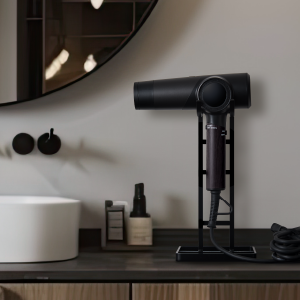
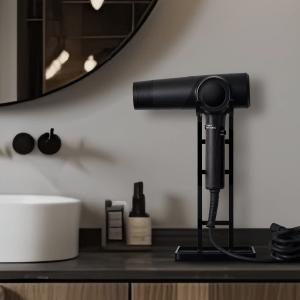
top画像差し替え

diff --git a/style.css b/style.css
@@ -2668,9 +2668,8 @@ Version: 1.0
   }
 }
 .p-top-introduction__img-content {
-  width: 46.25%;
+  width: min(50vw, 669px);
   padding-top: 25px;
-  padding-right: 75px;
 }
 @media only screen and (max-width: 768px) {
   .p-top-introduction__img-content {
@@ -2826,7 +2825,7 @@ Version: 1.0
   left: 16px;
 }
 .p-top-kv-section__card--right {
-  right: 16px;
+  right: 32px;
 }
 @media only screen and (max-width: 768px) {
   .p-top-kv-section__product-name {
@@ -2838,6 +2837,20 @@ Version: 1.0
 }
 .p-top-kv-section__product-name-inner {
   text-align: left;
+  margin-top: 60px;
+  letter-spacing: 3.5px;
+}
+.p-top-kv-section__product-name-logo {
+  text-align: center;
+}
+@media only screen and (max-width: 768px) {
+  .p-top-kv-section__product-name-logo {
+    text-align: right;
+  }
+}
+.p-top-kv-section__product-name-logo img {
+  width: min(50vw, 310px);
+  height: 188px;
 }
 .p-top-kv-section__card-title {
   line-height: 1.6;

diff --git a/scss/object/project/top/_top-kv-section.scss b/scss/object/project/top/_top-kv-section.scss
@@ -109,7 +109,7 @@
     }
 
     &--right {
-      right: 16px;
+      right: 32px;
     }
   }
   &__product-name {
@@ -122,6 +122,18 @@
   }
   &__product-name-inner {
     text-align: left;
+    margin-top: 60px;
+    letter-spacing: 3.5px;
+  }
+  &__product-name-logo {
+    text-align: center;
+    @include tablet {
+      text-align: right;
+    }
+    img {
+      width: min(50vw, 310px);
+      height: 188px;
+    }
   }
   &__card-title {
     line-height: 1.6;

diff --git a/scss/object/project/top/_top-introduction.scss b/scss/object/project/top/_top-introduction.scss
@@ -63,9 +63,8 @@
       margin: 0 auto;
       padding-right: 0;
     }
-    width: 46.25%;
+    width: min(50vw, 669px);
     padding-top: 25px;
-    padding-right: 75px;
   }
   &__button {
     @include tablet {

diff --git a/top.php b/top.php
@@ -11,7 +11,7 @@ $slider_data = get_field('top_slider');
 $slider_imgs = [];
 
 // スライダー画像の設定のあるものだけを抽出
-foreach($slider_data as $key => $value) {
+foreach ($slider_data as $key => $value) {
   if (!$value['slider_img_pc'] || !$value['slider_img_sp']) {
     continue;
   }
@@ -23,12 +23,12 @@ foreach($slider_data as $key => $value) {
   <section id="kv-area" class="c-slider">
     <!-- スライダー部 -->
     <ul class="slider full">
-        <?php foreach($slider_imgs as $img):?>
-          <li>
-            <img class="pc" src="<?php echo $img['slider_img_pc']?>" alt="">
-            <img class="sp" src="<?php echo $img['slider_img_sp']?>" alt="">
-          </li>
-        <?php endforeach;?>
+      <?php foreach ($slider_imgs as $img) : ?>
+        <li>
+          <img class="pc" src="<?php echo $img['slider_img_pc'] ?>" alt="">
+          <img class="sp" src="<?php echo $img['slider_img_sp'] ?>" alt="">
+        </li>
+      <?php endforeach; ?>
     </ul>
   </section>
   <section class="p-top-introduction l-container">
@@ -63,7 +63,10 @@ foreach($slider_data as $key => $value) {
         </div>
       </div>
       <div class="p-top-introduction__img-content">
-        <img src="<?php bloginfo('template_url'); ?>/assets/images/top/product/product1.png" alt="">
+        <picture>
+          <source srcset="<?php bloginfo('template_url'); ?>/assets/images/top/product/product1.webp" type="image/webp">
+          <img src="<?php bloginfo('template_url'); ?>/assets/images/top/product/product1.png" alt="">
+        </picture>
       </div>
     </section>
   </section>
@@ -82,23 +85,23 @@ foreach($slider_data as $key => $value) {
     <div class="p-top-topics__posts-list">
       <?php if ($the_query->have_posts()) : ?>
         <?php while ($the_query->have_posts()) : $the_query->the_post(); ?>
-        <a class="p-top-topics__post-link-wrap" href="<?php echo get_permalink(); ?>">
-          <dl class="p-top-topics__posts-list-item c-posts-list-card">
-            <dd class="c-posts-list__thumbnail">
-              <?php if (has_post_thumbnail()) : ?>
-                <?php the_post_thumbnail(); ?>
-              <?php else : ?>
-                <img src="<?php bloginfo('template_url'); ?>/assets/images/thumb.png" alt="">
-              <?php endif; ?>
-            </dd>
-            <dd class="p-top-topics__posts-list-date c-posts-list-card__date">
-              <time datetime="<?php the_time('Y/m/d'); ?>"><?php the_time('Y/m/d'); ?></time>
-            </dd>
-            <dt class="p-top-topics__posts-list-title c-posts-list-card__title">
-              <?php the_title(); ?>
-            </dt>
-          </dl>
-        </a>
+          <a class="p-top-topics__post-link-wrap" href="<?php echo get_permalink(); ?>">
+            <dl class="p-top-topics__posts-list-item c-posts-list-card">
+              <dd class="c-posts-list__thumbnail">
+                <?php if (has_post_thumbnail()) : ?>
+                  <?php the_post_thumbnail(); ?>
+                <?php else : ?>
+                  <img src="<?php bloginfo('template_url'); ?>/assets/images/thumb.png" alt="">
+                <?php endif; ?>
+              </dd>
+              <dd class="p-top-topics__posts-list-date c-posts-list-card__date">
+                <time datetime="<?php the_time('Y/m/d'); ?>"><?php the_time('Y/m/d'); ?></time>
+              </dd>
+              <dt class="p-top-topics__posts-list-title c-posts-list-card__title">
+                <?php the_title(); ?>
+              </dt>
+            </dl>
+          </a>
         <?php endwhile;
         wp_reset_postdata(); ?>
       <?php else : ?>
@@ -119,9 +122,9 @@ foreach($slider_data as $key => $value) {
         <section class="p-top-kv-section__card p-top-kv-section__card">
           <h2 class="p-top-kv-section__card-title c-heading-section--small c-txt--font-e">ECOALAについて</h2>
           <p class="p-top-kv-section__card-txt c-txt--20">
-          ただ髪を乾かすだけではなく、<br />
-          多くの人が髪や頭皮の悩みから解き放たれ<br />
-          心や表情まで軽やかになれるような体験を。
+            ただ髪を乾かすだけではなく、<br />
+            多くの人が髪や頭皮の悩みから解き放たれ<br />
+            心や表情まで軽やかになれるような体験を。
           </p>
           <div class="p-top-kv-section__card-button
               c-button c-button--round">
@@ -140,9 +143,8 @@ foreach($slider_data as $key => $value) {
       <div class="p-top-kv-section__kv-container-inner l-container l-container--wide">
         <div class="p-top-kv-section__kv-contents p-top-kv-section__kv-contents--right">
           <h2 class="p-top-kv-section__product-name">
-            <div class="p-top-kv-section__product-name-inner u-inline-block c-txt--font-e-serif">
-              <span class="c-heading-section--product-name-sub">ECOALA</span><br>
-              <span class="c-heading-section--product-name">AI Pro Style</span>
+            <div class="p-top-kv-section__product-name-logo">
+              <img src="<?php bloginfo('template_url'); ?>/assets/images/top/product/iDryer_logo.svg" alt="">
             </div>
           </h2>
           <section class="p-top-kv-section__card p-top-kv-section__card--ai-prostyle p-top-kv-section__card--right">
@@ -166,7 +168,10 @@ foreach($slider_data as $key => $value) {
     <section class="p-top-feature-section l-container l-container--wide">
       <div class="p-top-feature-section__card">
         <div class="p-top-feature-section__card-thumb">
-          <img src="<?php bloginfo('template_url'); ?>/assets/images/top/card/thumb1.png" alt="">
+          <picture>
+            <source srcset="<?php bloginfo('template_url'); ?>/assets/images/top/card/thumb1.webp" type="image/webp">
+            <img src="<?php bloginfo('template_url'); ?>/assets/images/top/card/thumb1.png" alt="">
+          </picture>
         </div>
         <dl class="p-top-feature-section__card-body">
           <dt class="p-top-feature-section__card-title c-txt--30 c-txt--font-d">
@@ -186,7 +191,10 @@ foreach($slider_data as $key => $value) {
 
       <div class="p-top-feature-section__card">
         <div class="p-top-feature-section__card-thumb">
-          <img src="<?php bloginfo('template_url'); ?>/assets/images/top/card/thumb2.png" alt="">
+          <picture>
+            <source srcset="<?php bloginfo('template_url'); ?>/assets/images/top/card/thumb2.webp" type="image/webp">
+            <img src="<?php bloginfo('template_url'); ?>/assets/images/top/card/thumb2.png" alt="">
+          </picture>
         </div>
         <dl class="p-top-feature-section__card-body">
           <dt class="p-top-feature-section__card-title c-txt--30 c-txt--font-d">
@@ -206,7 +214,10 @@ foreach($slider_data as $key => $value) {
 
       <div class="p-top-feature-section__card">
         <div class="p-top-feature-section__card-thumb">
-          <img src="<?php bloginfo('template_url'); ?>/assets/images/top/card/thumb3.png" alt="">
+          <picture>
+            <source srcset="<?php bloginfo('template_url'); ?>/assets/images/top/card/thumb3.webp" type="image/webp">
+            <img src="<?php bloginfo('template_url'); ?>/assets/images/top/card/thumb3.png" alt="">
+          </picture>
         </div>
         <dl class="p-top-feature-section__card-body">
           <dt class="p-top-feature-section__card-title c-txt--30 c-txt--font-d">
@@ -226,7 +237,10 @@ foreach($slider_data as $key => $value) {
 
       <div class="p-top-feature-section__card">
         <div class="p-top-feature-section__card-thumb">
-          <img src="<?php bloginfo('template_url'); ?>/assets/images/top/card/thumb4.png" alt="">
+          <picture>
+            <source srcset="<?php bloginfo('template_url'); ?>/assets/images/top/card/thumb4.webp" type="image/webp">
+            <img src="<?php bloginfo('template_url'); ?>/assets/images/top/card/thumb4.png" alt="">
+          </picture>
         </div>
         <dl class="p-top-feature-section__card-body">
           <dt class="p-top-feature-section__card-title c-txt--30 c-txt--font-d">
@@ -256,13 +270,13 @@ foreach($slider_data as $key => $value) {
           </h2>
           <section class="p-top-kv-section__card p-top-kv-section__card--dryer p-top-kv-section__card--right">
             <h3 class="p-top-kv-section__card-title c-txt--30 c-txt--font-d">
-            もっとうるおう、<br>
-            もっと美しく。
+              もっとうるおう、<br>
+              もっと美しく。
             </h3>
             <p class="p-top-kv-section__card-txt c-txt--20">
-            ファミリーでもひとりでも、<br>
-            髪と地肌に合わせたヘアケアを叶えるドライヤー。<br>
-            スタイリングや気分に合わせて楽しんで。
+              ファミリーでもひとりでも、<br>
+              髪と地肌に合わせたヘアケアを叶えるドライヤー。<br>
+              スタイリングや気分に合わせて楽しんで。
             </p>
             <div class="p-top-kv-section__card-button c-button c-button--round">
               <a href="/products/quick_hair_dryer/">Product Page</a>
@@ -275,7 +289,10 @@ foreach($slider_data as $key => $value) {
     <section class="p-top-feature-section l-container l-container--wide">
       <div class="p-top-feature-section__card">
         <div class="p-top-feature-section__card-thumb">
-          <img src="<?php bloginfo('template_url'); ?>/assets/images/top/card/dryer_thumb1.png" alt="">
+          <picture>
+            <source srcset="<?php bloginfo('template_url'); ?>/assets/images/top/card/dryer_thumb1.webp" type="image/webp">
+            <img src="<?php bloginfo('template_url'); ?>/assets/images/top/card/dryer_thumb1.png" alt="">
+          </picture>
         </div>
         <dl class="p-top-feature-section__card-body">
           <dt class="p-top-feature-section__card-title c-txt--30 c-txt--font-d">
@@ -296,6 +313,7 @@ foreach($slider_data as $key => $value) {
 
       <div class="p-top-feature-section__card">
         <div class="p-top-feature-section__card-thumb">
+          <source srcset="<?php bloginfo('template_url'); ?>/assets/images/top/card/dryer_thumb2.webp" type="image/webp">
           <img src="<?php bloginfo('template_url'); ?>/assets/images/top/card/dryer_thumb2.png" alt="">
         </div>
         <dl class="p-top-feature-section__card-body">
@@ -315,6 +333,7 @@ foreach($slider_data as $key => $value) {
 
       <div class="p-top-feature-section__card">
         <div class="p-top-feature-section__card-thumb">
+          <source srcset="<?php bloginfo('template_url'); ?>/assets/images/top/card/dryer_thumb3.webp" type="image/webp">
           <img src="<?php bloginfo('template_url'); ?>/assets/images/top/card/dryer_thumb3.png" alt="">
         </div>
         <dl class="p-top-feature-section__card-body">
@@ -334,6 +353,7 @@ foreach($slider_data as $key => $value) {
 
       <div class="p-top-feature-section__card">
         <div class="p-top-feature-section__card-thumb">
+          <source srcset="<?php bloginfo('template_url'); ?>/assets/images/top/card/dryer_thumb4.webp" type="image/webp">
           <img src="<?php bloginfo('template_url'); ?>/assets/images/top/card/dryer_thumb4.png" alt="">
         </div>
         <dl class="p-top-feature-section__card-body">
